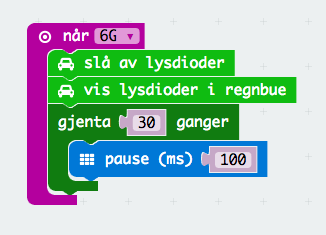
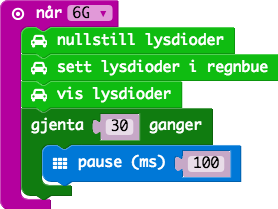
Fixed rainbow task

diff --git a/no/bitbot/rainbow/code.js b/no/bitbot/rainbow/code.js
@@ -1,6 +1,7 @@
-input.onGesture(Gesture.SixG, () => {
+input.onGesture(Gesture.Shake, () => {
     bitbot.neoClear()
-    bitbot.neoShowRainbow()
+    bitbot.neoRainbow()
+    bitbot.neoShow()
     for (let i = 0; i < 30; i++) {
         bitbot.neoShow()
         bitbot.neoRotate()

diff --git a/no/bitbot/rainbow/index.md b/no/bitbot/rainbow/index.md
@@ -21,6 +21,8 @@ Husk at for hver slik operasjon må man kalle "vis lysdioder".
 
 ![Kode](block-4.png)
 
+Til slutt kan man prøve å erstatte "roter lysdioder" med "skift lysdioder"
+for å se hvordan det ser ut.
 
 ## Ferdig Kode
 
